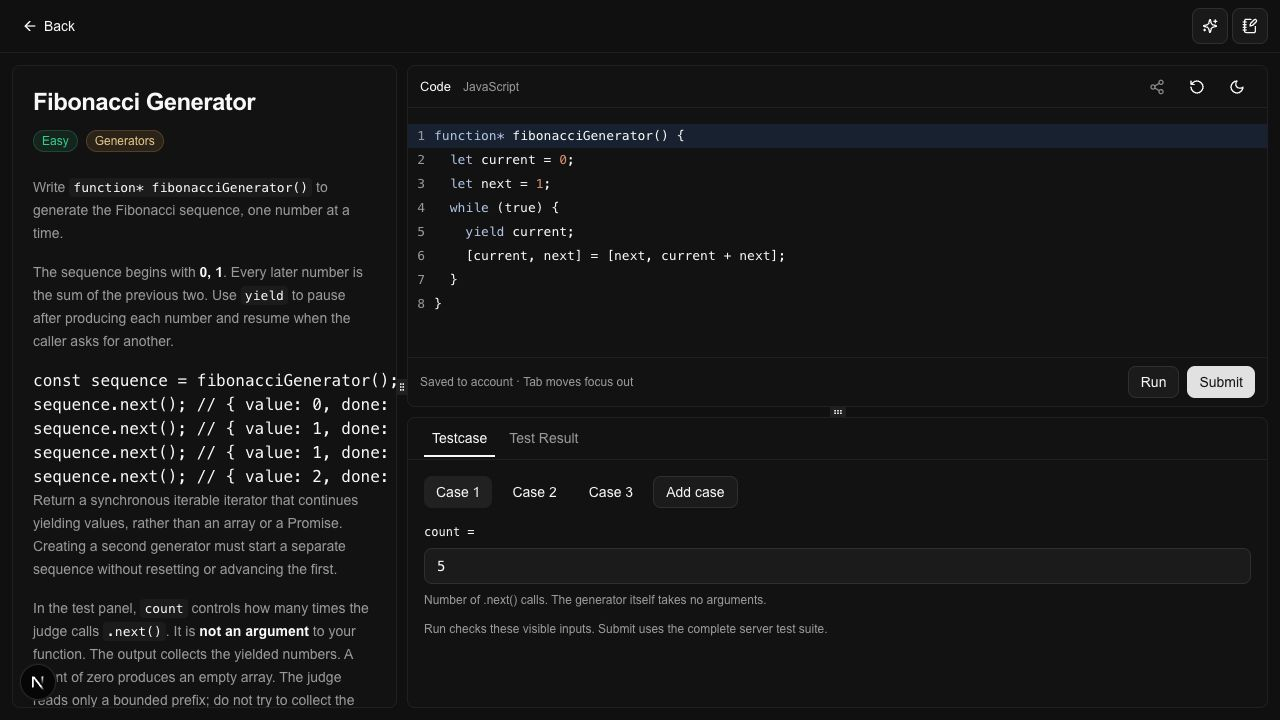
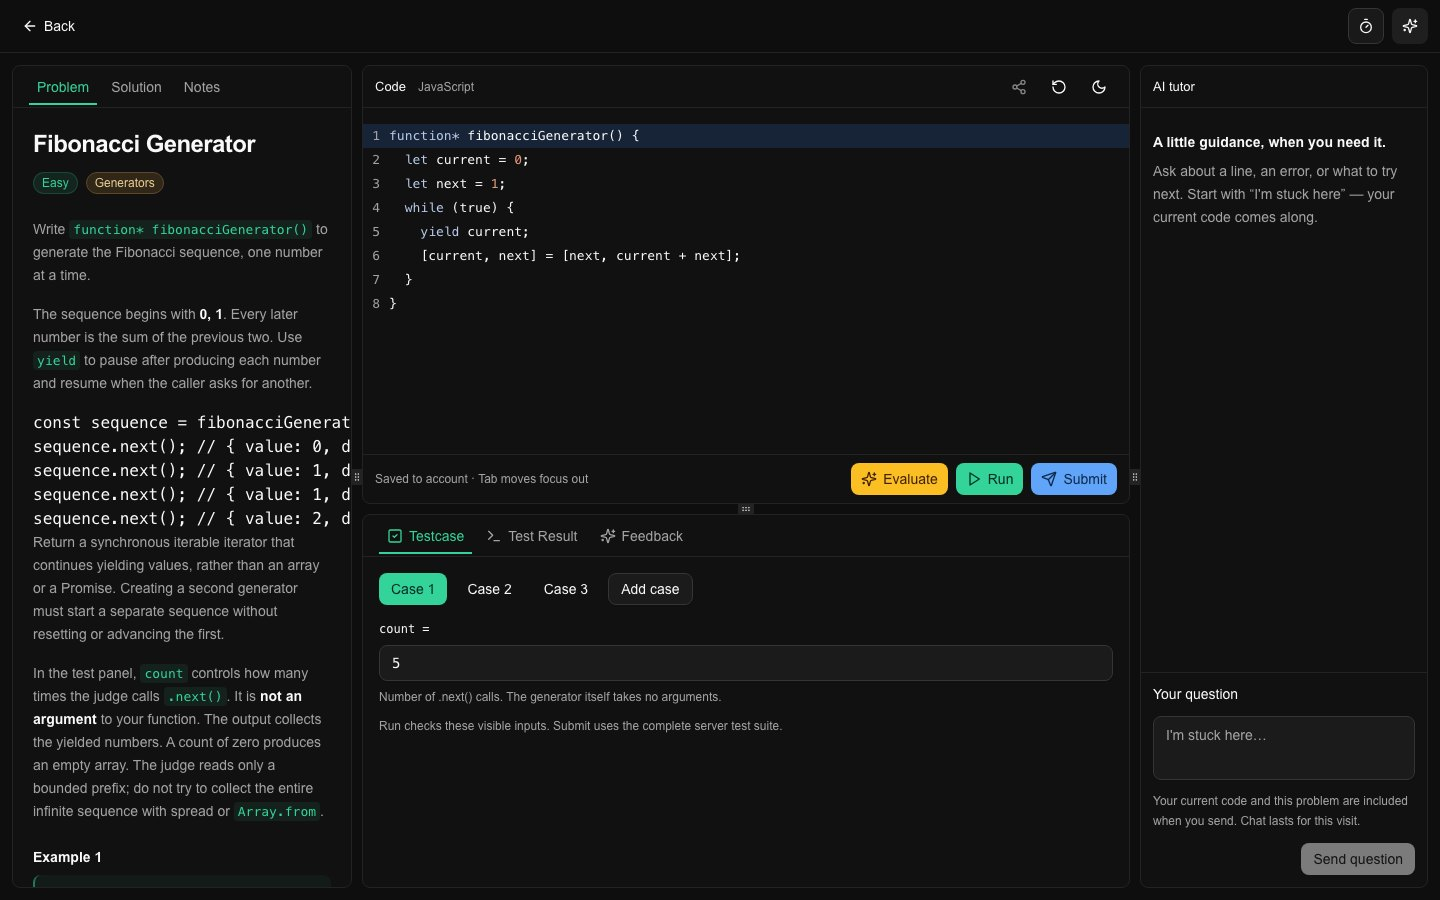
Refresh the Code Atlas README and previews

diff --git a/README.md b/README.md
@@ -2,11 +2,9 @@
 
 **Know the concept. Write the code.**
 
-Code Atlas helps developers practice JavaScript and Algorithms through hands-on coding challenges,
-real execution feedback, and progress that follows their account. JavaScript practice
-is available now, alongside a Two Pointers learning module preview with a six-step
-guided code walkthrough and an array visualization of the sample run. Individual
-lessons and additional subjects are planned.
+Practice JavaScript and Algorithms with hands-on challenges, real execution feedback, and
+account-backed progress. Run your own scripts in JavaScript Playground or follow guided
+walkthroughs in JavaScript, Algorithms, and React Learn.
 
 Built with Next.js, Electron, React, TypeScript, CodeMirror, QuickJS, Neon Auth, Neon PostgreSQL,
 Prisma, and Turborepo.
@@ -15,14 +13,15 @@ Prisma, and Turborepo.
 
 The coding workspace brings the problem, editor, and test cases together in resizable panels.
 
-![Fibonacci Generator workspace with a JavaScript editor, Run and Submit controls, and editable test cases](docs/images/coding-workspace.jpg)
+![Fibonacci Generator workspace with a JavaScript editor, editable test cases, and the AI tutor](docs/images/coding-workspace.jpg)
 
 <details>
 <summary>View the practice catalog and landing page</summary>
 
-Browse JavaScript and Algorithms challenges by topic, search, or difficulty, with account-backed flags and solved status.
+Browse JavaScript and Algorithms challenges by category, search, and difficulty. Sort by
+difficulty or category, flag problems, and track which ones you've solved.
 
-![JavaScript practice catalog with categories, difficulty filtering, search, and progress indicators](docs/images/practice-catalog.jpg)
+![JavaScript Practice with categories, difficulty filtering, sorting, search, and progress indicators](docs/images/practice-catalog.jpg)
 
 The public landing page includes a Counter example that works without an account.
 
@@ -45,43 +44,30 @@ server-side JavaScript environment against the full test suite, including privat
 cases. You'll receive a verdict and feedback to guide your next attempt. Only an
 accepted Submit marks the problem solved.
 
-Your latest executed code is saved to your account after Run or Submit, regardless
-of the verdict. Your flags and solved progress stay with your account too, so you
-can pick up where you left off, even on another device.
-
-The idea is to make learning more hands-on: **read the problem, experiment, get
-feedback, and improve.**
+Your account stores the latest code you ran or submitted, along with problem flags and
+solved status. You can pick up where you left off on another device.
 
 ## What works today
 
-- **Learning preview:** Browse JavaScript, Algorithms, or React Learn with category,
-  search, and difficulty filters. Two Pointers introduces array strategies; React's
-  Hooks section starts with useEffect lifecycle and a six-step timer explanation.
-  These authored examples do not execute code or save learning progress.
-- **Focused practice:** CodeMirror JavaScript editor, resizable panels, hints and solutions,
-  plus light, dark, and system themes.
-- **Practice timer:** A toolbar stopwatch and configurable countdown with pause,
-  resume, reset, and collapsed controls. Timing lasts for the current problem visit.
-- **Real evaluation:** Run editable visible cases, then Submit against a server-selected
-  suite that includes private cases. Only an accepted Submit marks a problem solved.
-- **Persistent progress:** Flag problems and restore the latest code saved after Run or
-  Submit, regardless of verdict. Unsaved editor changes remain in memory.
-- **Context-aware AI tutor:** Ask for hints using your current unsaved code and the problem
-  context. Requests happen only when you send a question; chat lasts for this visit.
-- **AI code evaluation:** Select Evaluate beside Run and Submit for a scored review of
-  correctness, efficiency, code quality and edge cases in a dedicated Feedback tab.
-  Reports review the captured code without executing it and last for this visit.
-- **React development pilot:** In development, explore React from Dashboard and select Practice for a
-  Stale Closure Counter exercise with a TypeScript/JSX editor, Submit-based browser
-  preview, console and the existing tutor. Drafts/chat are visit-only. The pilot is
-  unavailable in production; see [its scope and execution limits](docs/features/react-sandbox.md).
-- **Private problem notes:** Write formatted takeaways, lists, code blocks, and links in
-  Notes, then select Save to keep them with your account. Unsaved notes last only until
-  leaving or reloading the problem.
-- **Account ownership:** Neon Auth handles authentication; Prisma and Neon store each learner's
-  progress behind authenticated Next.js APIs.
-- **Isolated execution:** QuickJS WebAssembly runs in disposable Node.js Workers with
-  resource limits. Learner code has no application filesystem, Node module, or network access.
+- **Learn** has searchable, filterable module previews. Two Pointers walks through array
+  strategies with a visualization in JavaScript and Algorithms. React's Hooks section
+  covers the `useEffect` lifecycle with a six-step timer walkthrough.
+- **Practice** includes a CodeMirror editor, resizable panels, hints, solutions, and a
+  stopwatch or countdown for the current problem visit. Light, dark, and system themes
+  are available.
+- **JavaScript Playground** runs a standalone script and shows console output, errors,
+  and time limits. The draft, output, and tutor chat last for the current visit. See the
+  [Playground guide](docs/features/javascript-playground.md).
+- **AI Tutor** uses your current unsaved code and the workspace context. Press Enter to
+  send or Shift+Enter for a new line. The conversation lasts for the current visit.
+- **Evaluate** provides a scored review of correctness, efficiency, code quality, and edge
+  cases in the Feedback tab. It reviews a snapshot without executing it. Feedback lasts
+  for the current visit.
+- **Notes** stores private, formatted takeaways with your account when you select Save.
+  Unsaved notes last until you leave or reload the problem.
+- **React Practice** is a development-only pilot. The Stale Closure Counter exercise has a
+  TypeScript/JSX editor, a browser preview updated by Submit, a console, and the tutor.
+  See the [React pilot scope and execution limits](docs/features/react-sandbox.md).
 
 ### Available challenges
 
@@ -135,8 +121,9 @@ pnpm install --frozen-lockfile
 pnpm dev
 ```
 
-Open <http://localhost:3000>. The public landing page runs without credentials.
-Signing in and using Run/Submit require Neon Auth; saving progress also requires Neon.
+Open <http://localhost:3000>. Use `localhost` for local sign-in. The public landing page and
+its Counter example run without credentials. Learn, Practice, and Playground require a
+Neon Auth session. Account saves also require a Neon database connection.
 
 ### Enable accounts and saved progress
 
@@ -161,13 +148,20 @@ pnpm db:deploy
 ```
 
 Restart the development server after environment changes. Installation and production
-builds work without database credentials. See the [development guide](docs/development.md#environment-and-authentication)
-for auth behavior, connection details, and troubleshooting.
+builds work without database credentials. See the [development guide for auth behavior,
+connection details, and troubleshooting](docs/development.md#environment-and-authentication).
+
+### Enable the AI Tutor and Evaluate
+
+Set `OPENAI_API_KEY` and `OPENAI_TUTOR_MODEL` in `apps/web/.env.local`. Evaluate uses
+the tutor model by default. Set `OPENAI_EVALUATION_MODEL` to use a separate model.
+See the [AI setup guide](docs/development.md#ai-capabilities).
 
 ## System architecture
 
-The browser and Electron client use one Next.js application serving pages and same-origin API Route Handlers. Privileged services
-stay on the server, and learner code runs in an isolated QuickJS worker.
+The browser and Electron client use one Next.js application. Protected pages and API routes
+verify Neon Auth sessions. Practice and Playground run code in disposable Node.js workers
+using QuickJS WebAssembly, with no access to the host filesystem, Node modules, or network.
 
 ```mermaid
 %%{init: {"look": "classic", "fontFamily": "Arial", "themeVariables": {"fontFamily": "Arial, sans-serif", "fontSize": "14px"}, "flowchart": {"nodeSpacing": 18, "rankSpacing": 30, "curve": "linear", "padding": 12, "wrappingWidth": 220}}}%%
@@ -177,16 +171,19 @@ flowchart LR
 
     subgraph Next["Next.js application"]
         Routes["Pages + API routes<br/>Neon Auth + input validation"]
-        Judge["Code execution<br/>Private tests + QuickJS"]
-        Progress["Account progress<br/>Flags · solved · last code"]
+        Judge["Code execution<br/>Practice and Playground"]
+        Progress["Account data<br/>Progress, code, and notes"]
+        AI["AI Tutor and Evaluate"]
 
         Routes --> Judge
         Routes --> Progress
+        Routes --> AI
     end
 
     Browser --> Routes
     Auth -.-> Routes
     Progress --> Neon[("Neon Postgres<br/>Prisma")]
+    AI --> OpenAI["OpenAI API"]
 
     style Next fill:transparent,stroke:#94a3b8,stroke-width:1px,font-family:Arial
     classDef default font-family:Arial
@@ -194,12 +191,11 @@ flowchart LR
     classDef app fill:#eff6ff,stroke:#60a5fa,color:#1e3a5f
     classDef data fill:#fffbeb,stroke:#d4a72c,color:#713f12
     class Browser,Auth client
-    class Routes,Judge,Progress app
-    class Neon data
+    class Routes,Judge,Progress,AI app
+    class Neon,OpenAI data
 ```
 
-Protected pages and APIs verify Neon Auth identity. Problem content stays in source files;
-Neon stores flags, verified solved status, and the latest executed code.
+Problem definitions and private test suites live in the repo. Neon stores account data.
 
 ## Desktop app
 
@@ -209,9 +205,9 @@ Run Code Atlas in its own desktop window:
 pnpm desktop:dev
 ```
 
-This starts the local web server when needed and opens Electron. Accounts, Run/Submit,
-and progress use the same backend as the website. Desktop has its own sign-in session;
-use email and password. Google sign-in is available in the browser version.
+This starts the local web server when needed and opens Electron. The desktop app uses the
+same backend as the website, with a separate email-and-password sign-in session. Google
+sign-in is available in the browser version.
 
 `pnpm desktop:package:local` creates an unsigned Mac app in `apps/desktop/release/`.
 Keep `pnpm dev` running when opening that local app. For other computers, package with
@@ -233,11 +229,11 @@ requests targeting `main` and pushes to `main`. Biome handles linting and format
 Vitest covers unit and integration behavior.
 
 `pnpm test:e2e` runs the production Playwright smoke suite after a credential-free
-build, with port 3000 available. Optional authenticated browser and Electron checks require a dedicated
-Neon Auth development test user. `pnpm test:e2e:desktop:auth` checks Run/Submit and saved
-progress after fully quitting and reopening Electron against the production server.
-See [verification instructions](docs/development.md#verification)
-and the [full command list](docs/development.md#commands).
+build. It uses port 3000 by default. Set `PLAYWRIGHT_PORT` to use another free port.
+Optional authenticated suites use a dedicated Neon Auth development test user. Run
+`pnpm test:e2e:auth` for browser checks or `pnpm test:e2e:desktop:auth` to check
+Run/Submit and progress after restarting Electron. See the [verification instructions](docs/development.md#verification)
+and [full command list](docs/development.md#commands).
 
 Use `pnpm analyze` for interactive Turbopack bundle inspection, or
 `pnpm analyze --output --snapshot baseline` to save a report without starting a
@@ -247,11 +243,8 @@ snapshots and graph exports. Analysis is separate from the normal build and CI.
 ## What's next
 
 Individual Learn lessons, additional JavaScript and Algorithms challenges, saved tutor history,
-note media embeds/uploads, submission history, and signed desktop distribution are planned.
-AI tutoring requires a server OpenAI key and model setting; see the [tutor setup](docs/development.md#ai-tutor). Hosted deployment is not yet configured.
-Evaluation reuses that configuration; `OPENAI_EVALUATION_MODEL` optionally selects a
-separate model. See [AI capabilities](docs/development.md#ai-capabilities) for shared
-infrastructure and the [evaluation brief](docs/features/code-evaluation.md) for scope.
+note media embeds and uploads, submission history, hosted deployment, and signed desktop
+distribution are planned.
 
 ## Documentation
 
